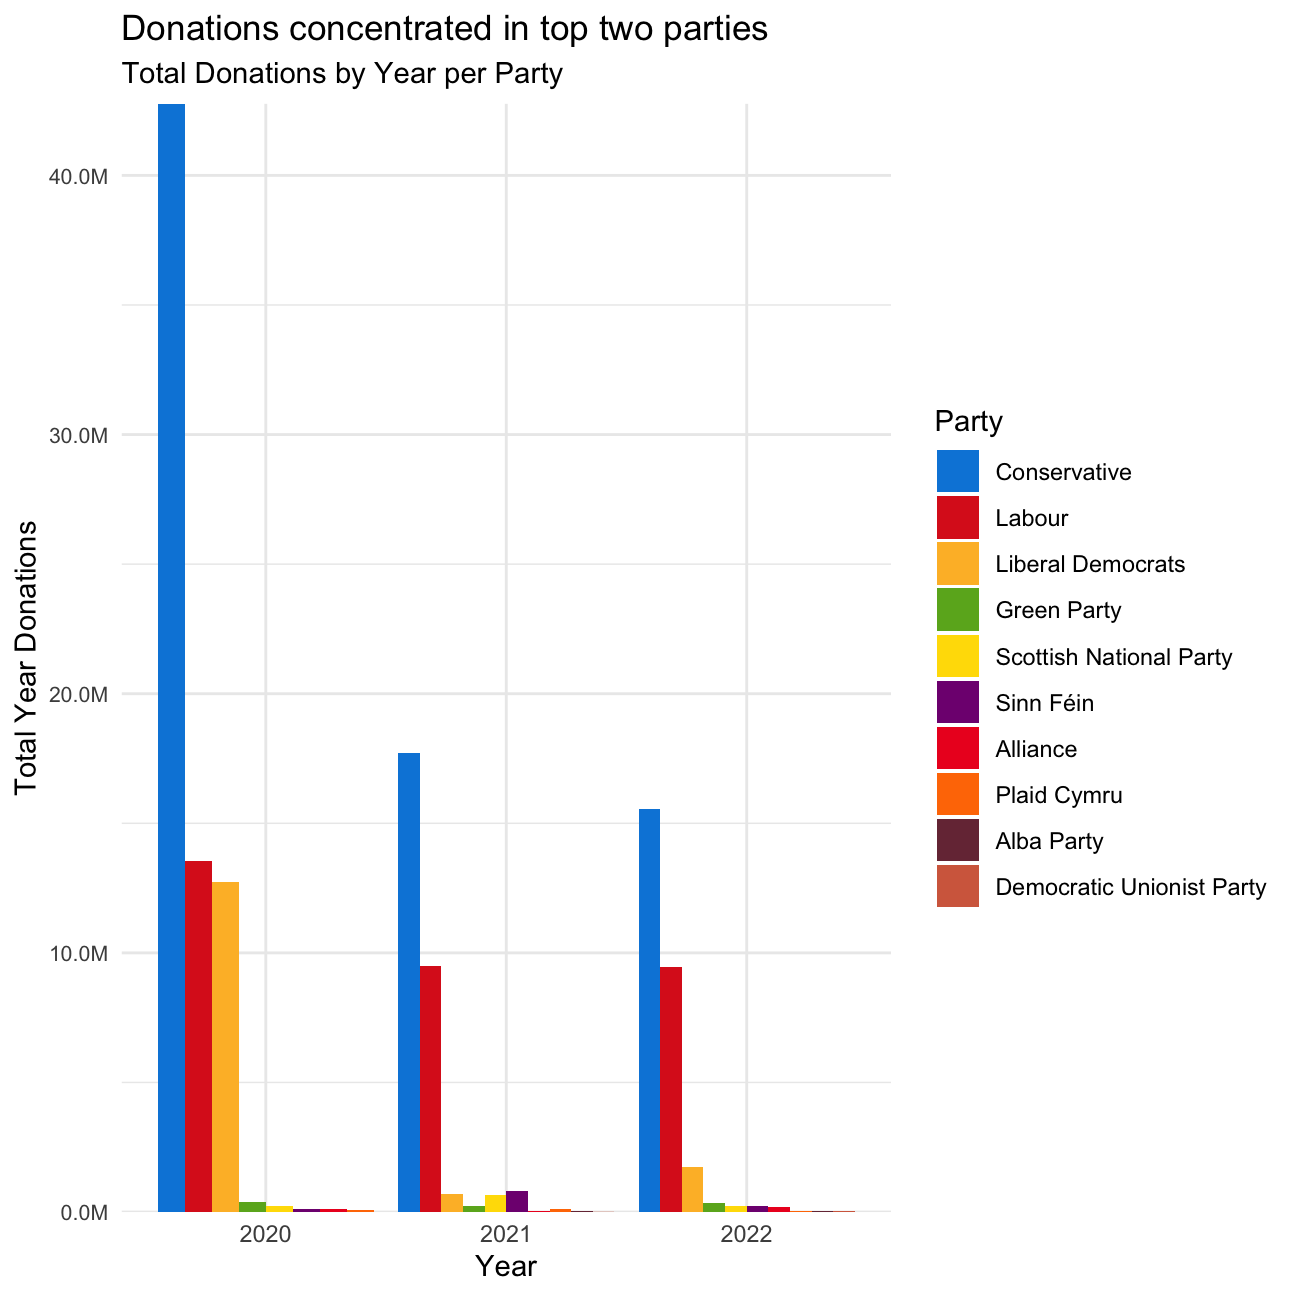
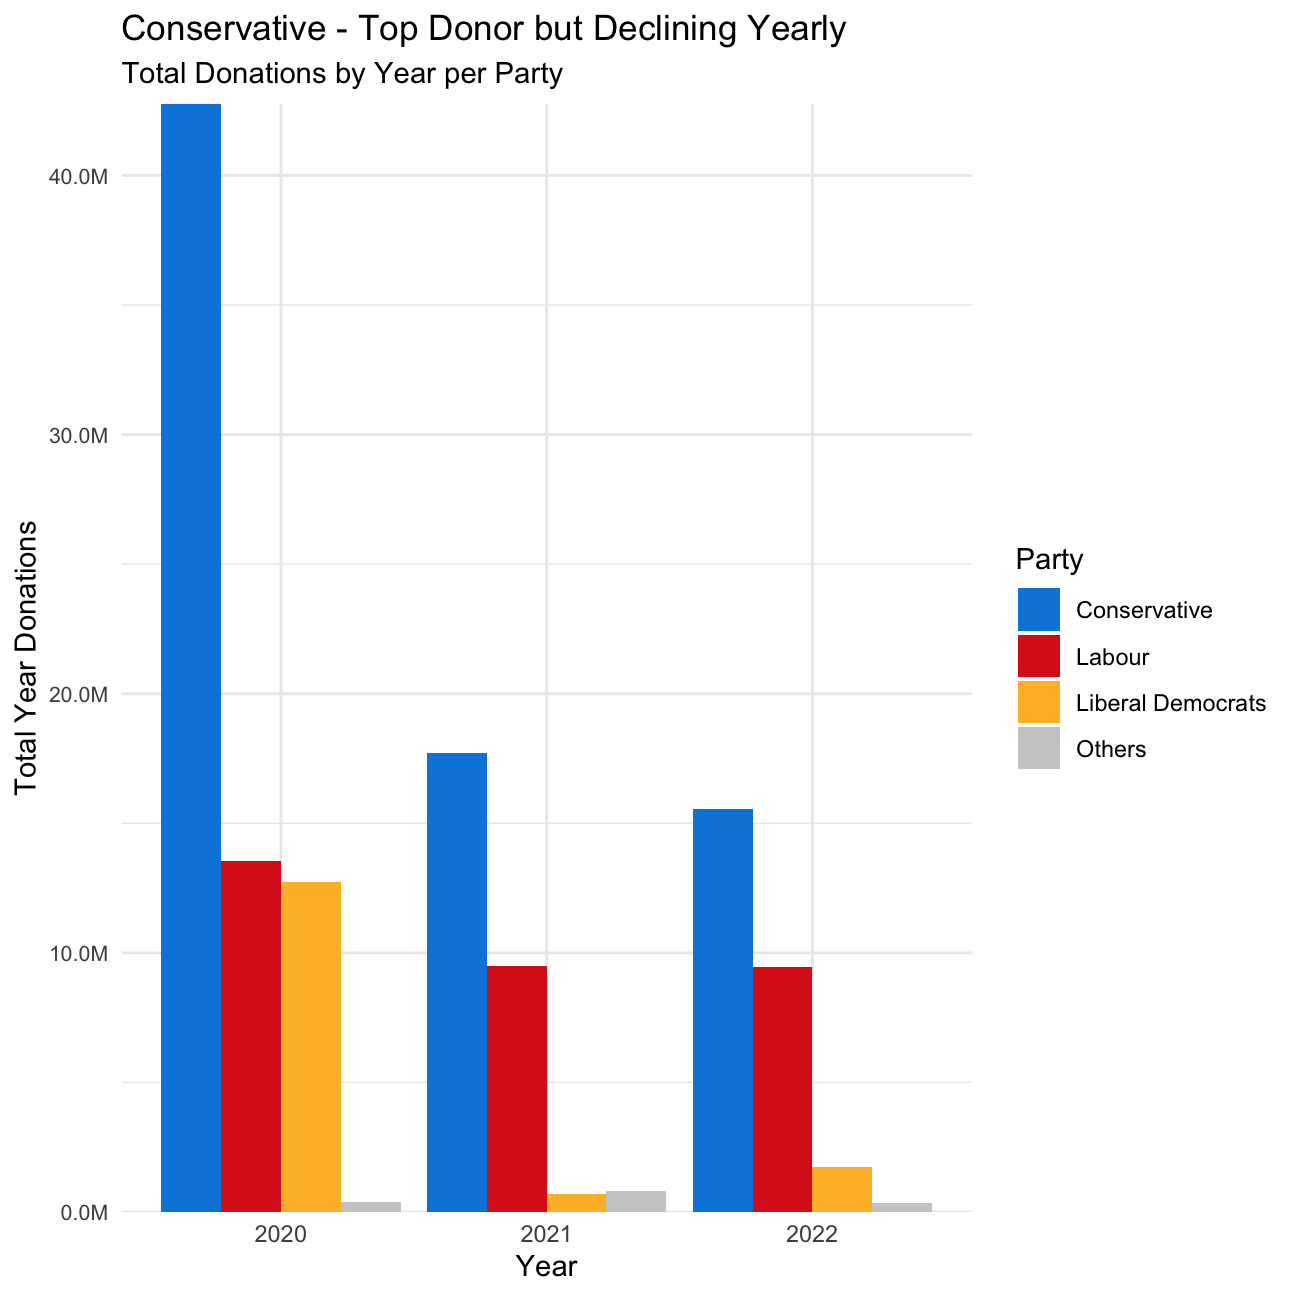
kc changes

diff --git a/content/blogs/blo5.md b/content/blogs/blo5.md
@@ -282,9 +282,6 @@ cat("The party that raised the greatest amount of money had party_id:", party_ma
 ## The party that raised the greatest amount of money had party_id: p4 with a total of: 2.5e+07
 ```
 
-I would like you to write code that generates the following table.
-
-<img src="../../images/total_donations_table.png" width="80%" style="display: block; margin: auto;" />
 
 
 ```r
@@ -364,7 +361,7 @@ ggplot(data = party_year_amounts_1, aes(x = factor(year), y = total_year_donatio
   theme(axis.text.y = element_text(size = 8))
 ```
 
-<img src="/blogs/blo5_files/figure-html/unnamed-chunk-11-1.png" width="648" style="display: block; margin: auto;" />
+<img src="/blogs/blo5_files/figure-html/unnamed-chunk-10-1.png" width="648" style="display: block; margin: auto;" />
 
 
 ```r
@@ -393,14 +390,17 @@ party_year_amounts_2 <- party_year_amounts %>%
 # Create the bar chart
 ggplot(data = party_year_amounts_2, aes(x = factor(year), y = total_year_donations, fill = name)) +
   geom_bar(stat = "identity", position = "dodge") +
-  labs(title = "Conservative - Top Donor but Declining Yearly", subtitle = "Total Donations by Year per Party",, x = "Year", y = "Total Year Donations") +
+  labs(title = "Conservative - Top Donor but Declining Yearly", 
+       subtitle = "Total Donations by Year per Party",
+       x = "Year", 
+       y = "Total Year Donations") +
   scale_fill_manual(values = c(official_colors[top_parties], Others = "#CCCCCC"), name = "Party") +
   theme_minimal() +
   scale_y_continuous(labels = scales::comma_format(scale = 1e-6, accuracy = 0.1, suffix = "M"), expand = c(0, 0)) +
   theme(axis.text.y = element_text(size = 8))
 ```
 
-<img src="/blogs/blo5_files/figure-html/unnamed-chunk-12-1.png" width="648" style="display: block; margin: auto;" />
+<img src="/blogs/blo5_files/figure-html/unnamed-chunk-11-1.png" width="648" style="display: block; margin: auto;" />
 
 
 This uses the default ggplot colour pallete, as I dont want you to worry about using the [official colours for each party](https://en.wikipedia.org/wiki/Wikipedia:Index_of_United_Kingdom_political_parties_meta_attributes). However, I would like you to ensure the parties are sorted according to total donations and not alphabetically. You may even want to remove some of the smaller parties that hardly register on the graph. Would facetting help you?

diff --git a/content/blogs/_index.md b/content/blogs/_index.md
@@ -3,7 +3,7 @@ date: "2017-10-31T22:27:21-05:00"
 draft: false
 image: pic02.jpg
 slug: blogs
-title: Lifestyle
+title: Data Science
 ---
 
-My blogs about technology and lifestyle.
+My blogs about Data Science and the power of R.

diff --git a/content/blogs/risk_return.md b/content/blogs/risk_return.md
@@ -11,7 +11,6 @@ keywords: ""
 slug: risk_return # slug is the shorthand URL address... no spaces plz
 title: Risk-Return of DJIA stocks
 ---
-  
 
 
 
